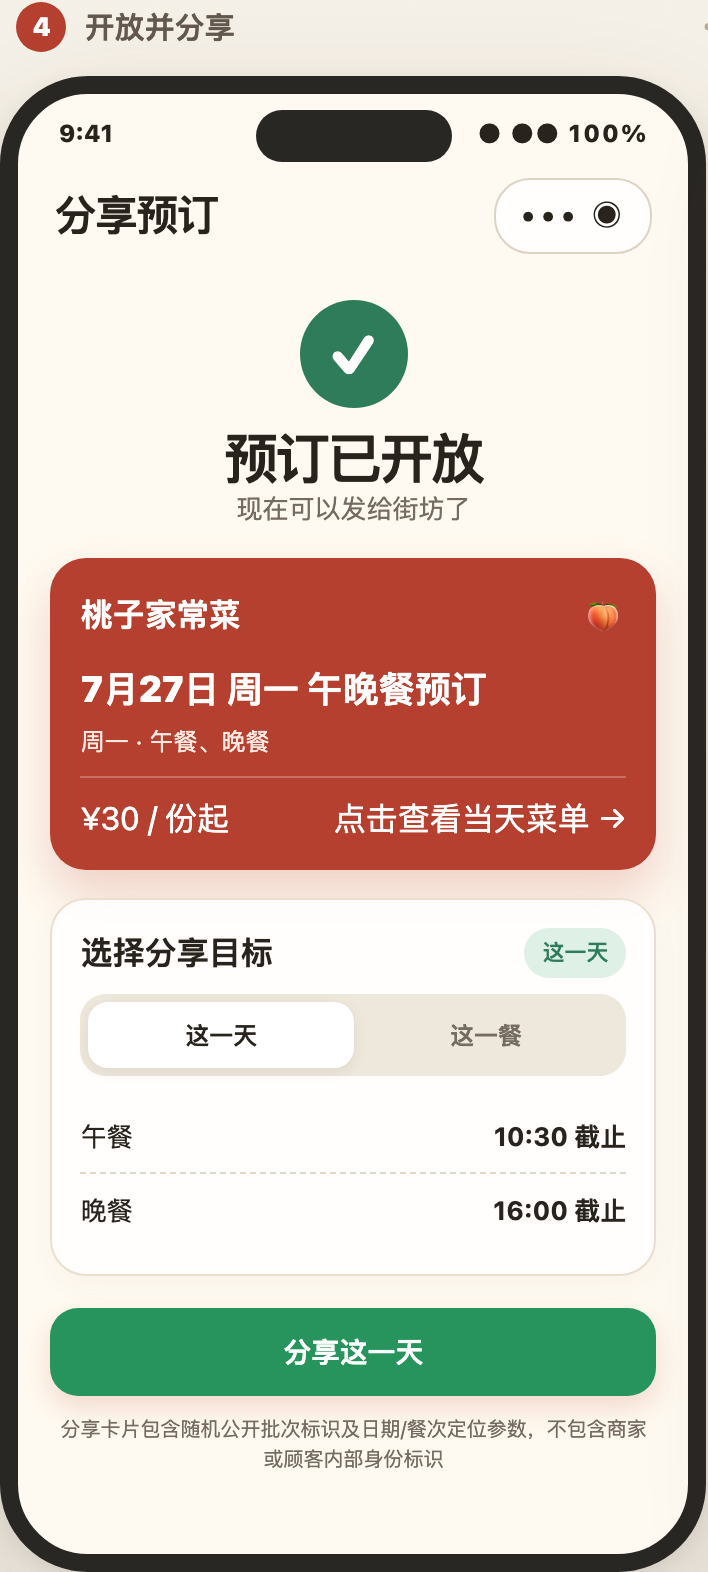
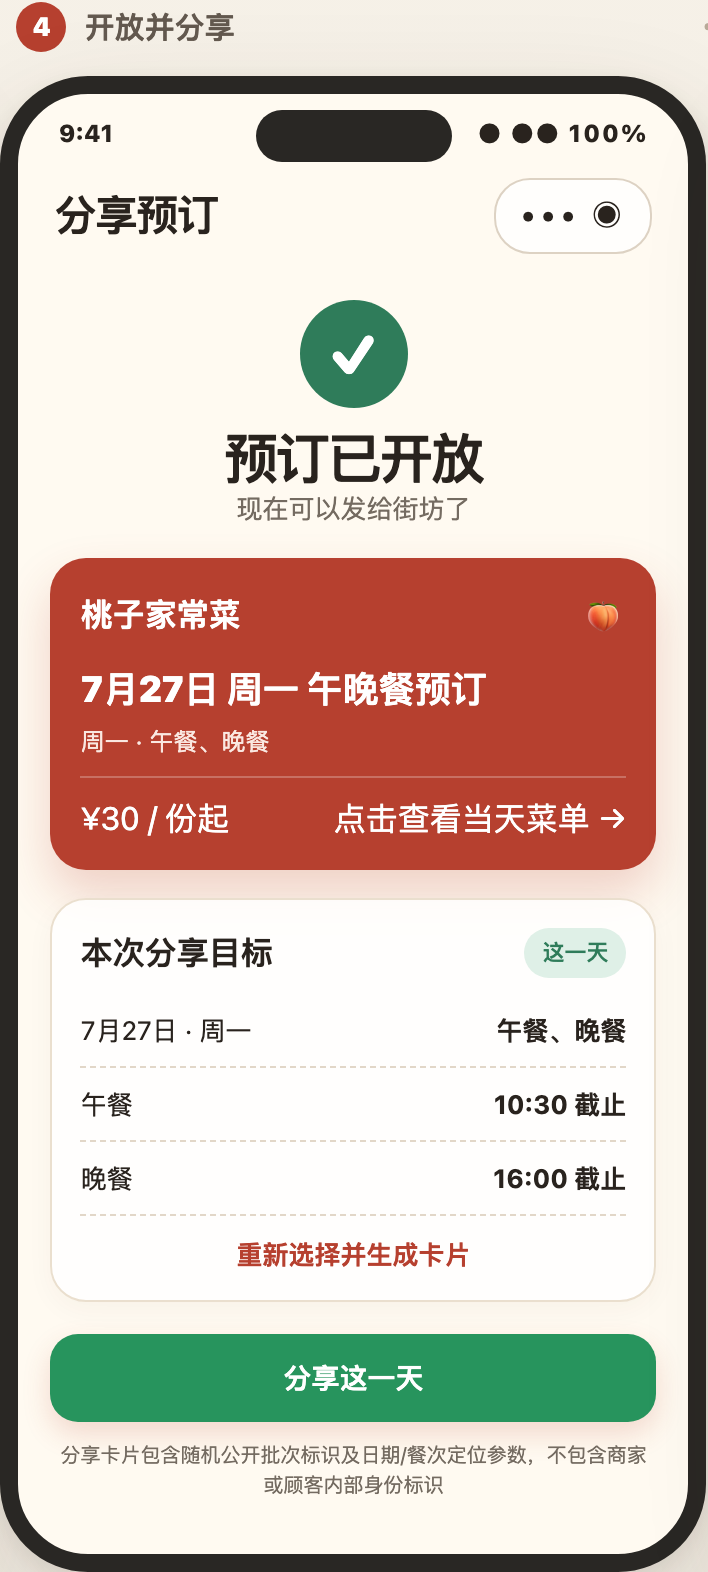
docs(kith-inn-v1): clarify hifi implementation dependencies

Changed region(s): [[0.0621, 0.7793, 0.9322, 0.9663], [0.0932, 0.5922, 0.9011, 0.7793]]

diff --git a/docs/kith-inn-v1/design/kith-inn-v1-hifi-v1.html b/docs/kith-inn-v1/design/kith-inn-v1-hifi-v1.html
@@ -153,8 +153,8 @@
     <header class="hero">
       <div>
         <div class="eyebrow">WECHAT MINI PROGRAM · HIGH-FIDELITY CONCEPT</div>
-        <h1>街坊味 v1 · 前端重构视觉基准</h1>
-        <p>把复杂后台收成两条清楚主线：桃子经营一周菜单，街坊从分享卡片完成预订。</p>
+        <h1>街坊味 v1 · 前端重构目标概念稿</h1>
+        <p>把复杂后台收成两条清楚主线：桃子经营一周菜单，街坊从分享卡片完成预订。餐次级锁单是目标模型，落地前须先更新规格与状态机。</p>
       </div>
       <div class="version">概念稿 v0.4 · 2026-07-27</div>
     </header>
@@ -250,10 +250,11 @@
                 <div class="row"><span>¥30 / 份起</span><span>点击查看当天菜单 →</span></div>
               </div>
               <div class="card" style="margin-top:14px">
-                <div class="card-title"><span>选择分享目标</span><span class="chip green">这一天</span></div>
-                <div class="segment"><span class="active">这一天</span><span>这一餐</span></div>
+                <div class="card-title"><span>本次分享目标</span><span class="chip green">这一天</span></div>
+                <div class="summary-row"><span>7月27日 · 周一</span><b>午餐、晚餐</b></div>
                 <div class="summary-row"><span>午餐</span><b>10:30 截止</b></div>
                 <div class="summary-row"><span>晚餐</span><b>16:00 截止</b></div>
+                <div class="text-link" style="margin-top:10px;text-align:center">重新选择并生成卡片</div>
               </div>
               <div class="button wechat" style="margin-top:16px">分享这一天</div>
               <div class="policy center">分享卡片包含随机公开批次标识及日期/餐次定位参数，不包含商家或顾客内部身份标识</div>
@@ -375,7 +376,7 @@
       </div>
     </section>
 
-    <footer class="principles"><span>一屏一主任务</span><span>大字号与大触控区</span><span>状态必须有文案</span><span>停止预订可重开 · 锁单不可逆</span><span>订单工作筛选可重叠</span><span>顾客入口不暴露商家功能</span><span>接龙兜底默认隐藏</span><span>无在线支付 / 无 AI 主链路</span></footer>
+    <footer class="principles"><span>一屏一主任务</span><span>大字号与大触控区</span><span>状态必须有文案</span><span>停止预订可重开 · 锁单不可逆</span><span>锁单实现前先更新 spec / 状态机</span><span>订单工作筛选可重叠</span><span>顾客入口不暴露商家功能</span><span>接龙兜底默认隐藏</span><span>无在线支付 / 无 AI 主链路</span></footer>
   </main>
 </body>
 </html>
